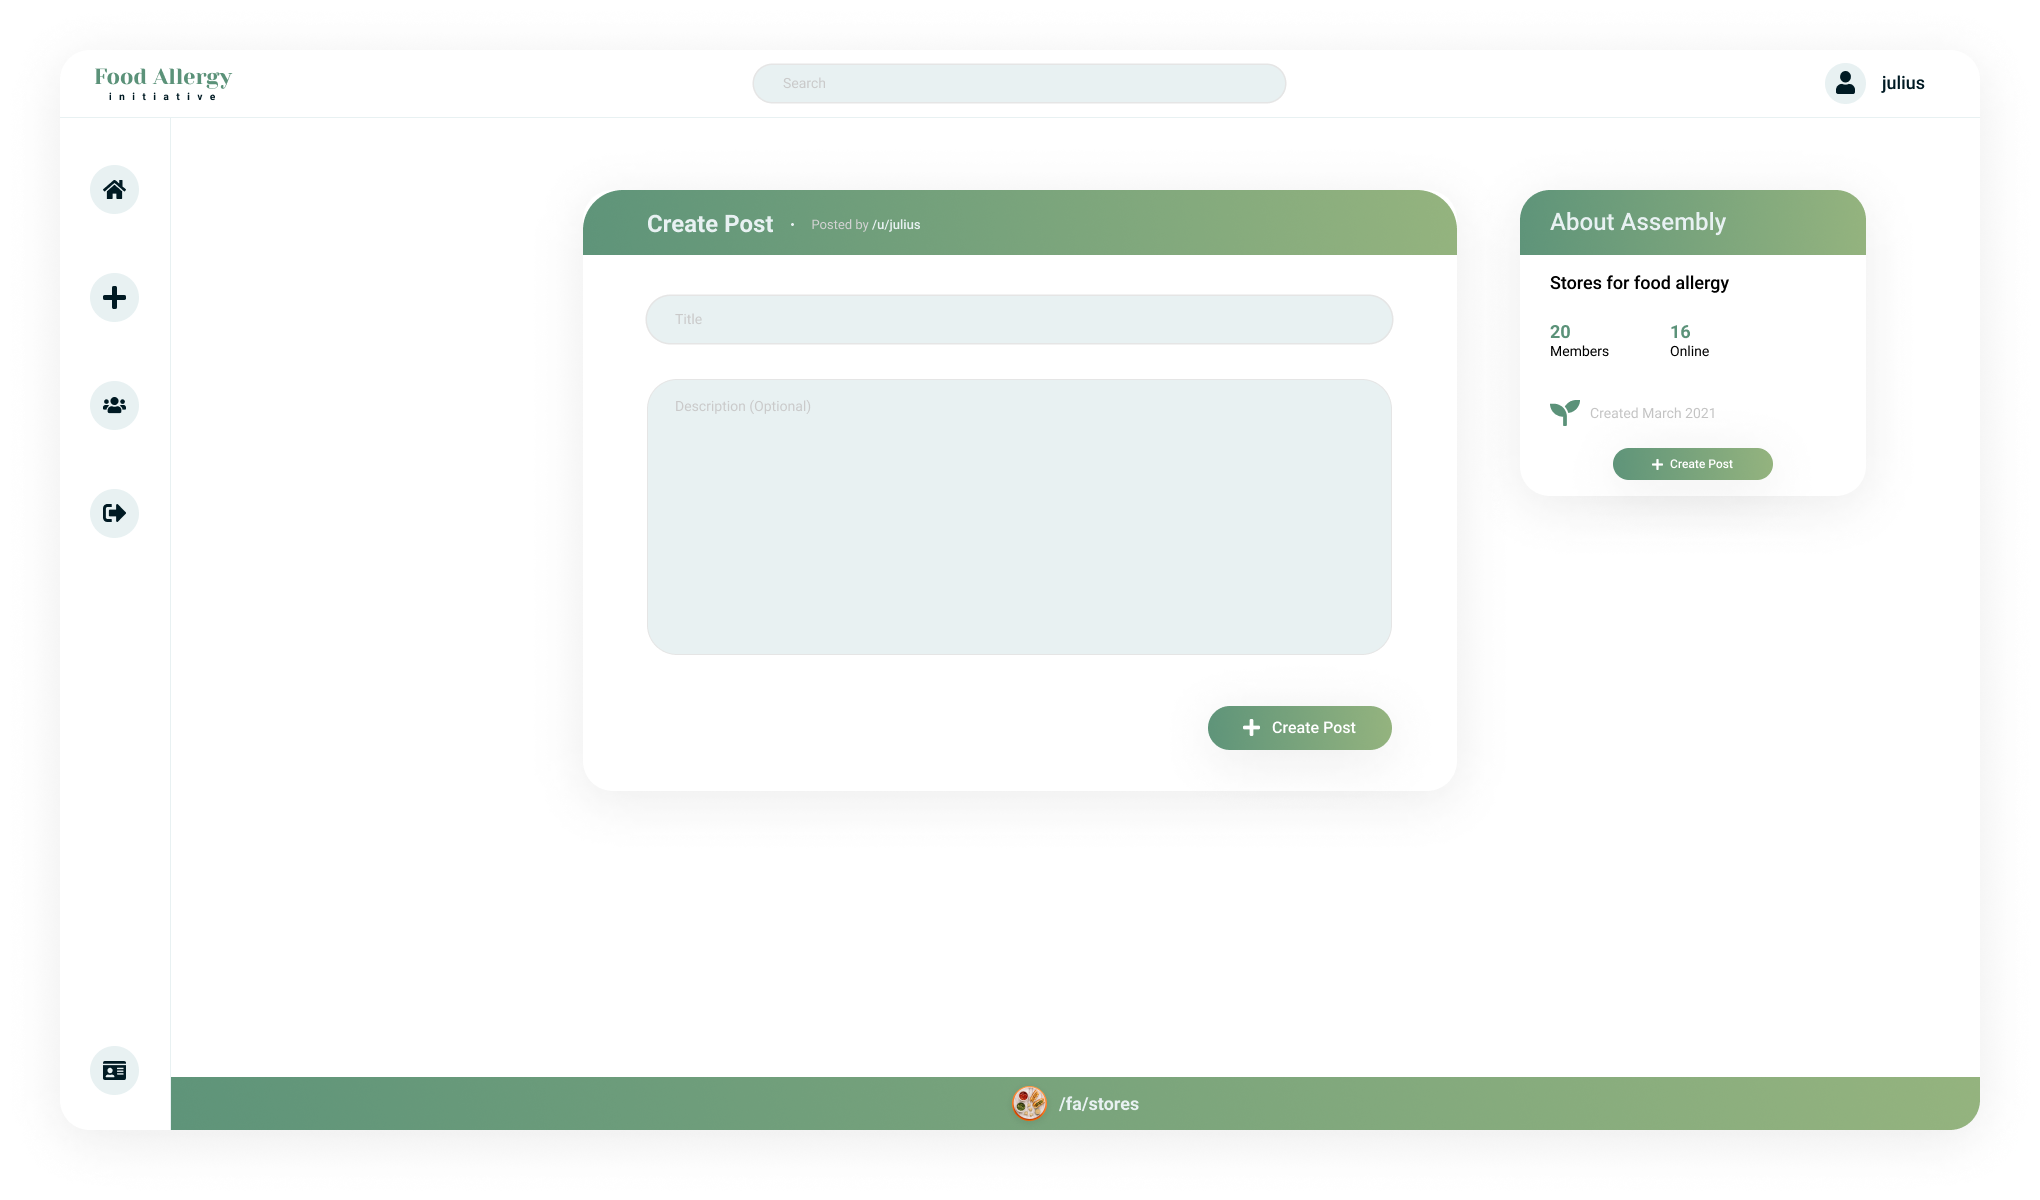
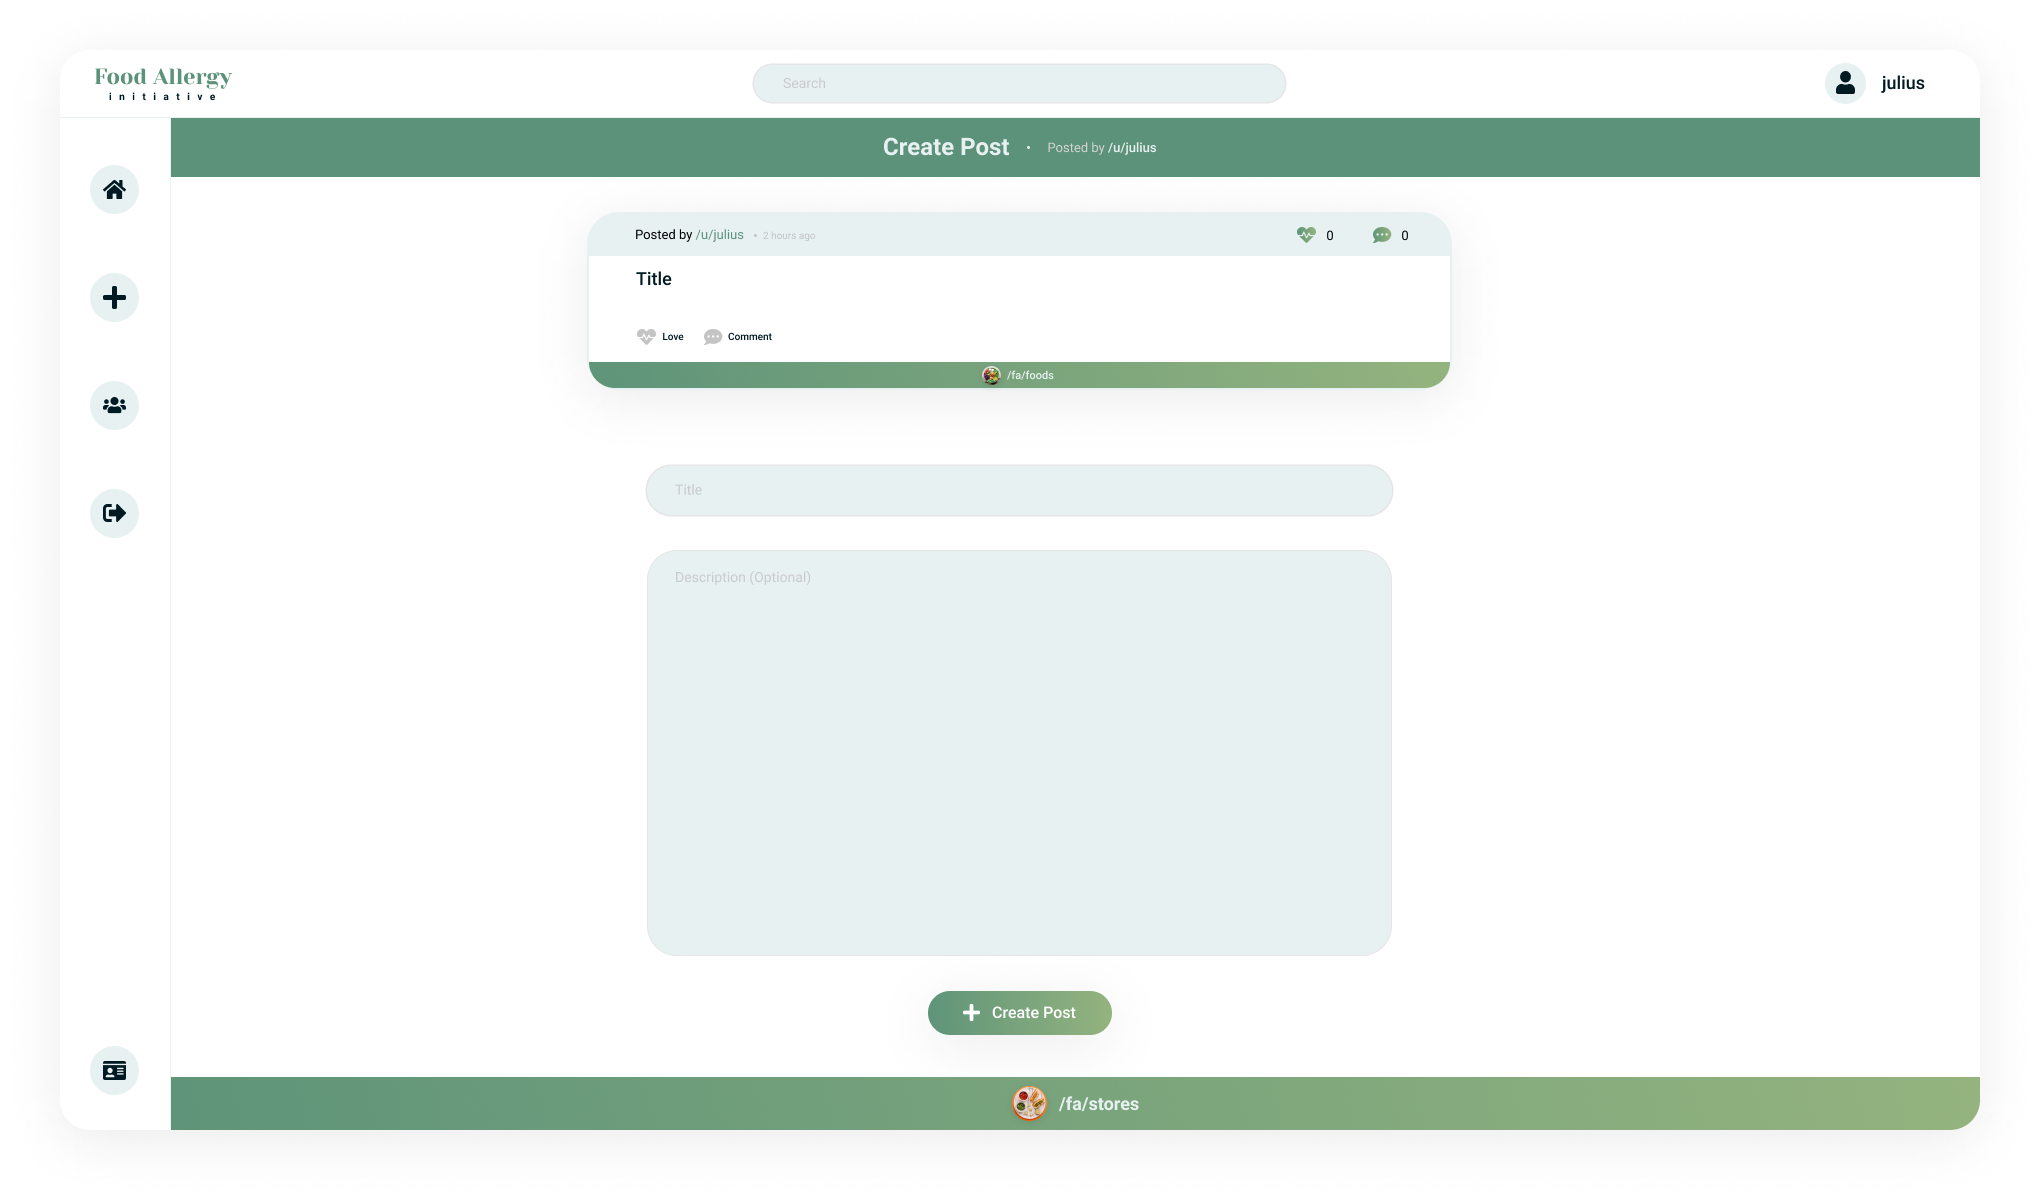
changed page 7

diff --git a/client/src/pages/fa/[sub].tsx b/client/src/pages/fa/[sub].tsx
@@ -10,7 +10,6 @@ import { useAuthState } from "../../context/auth";
 import Image from "next/image";
 import classNames from "classnames";
 import Axios from "axios";
-import AssembliesAndSub from "../../components/AssembliesAndSub";
 import AboutAssembly from "../../components/AboutAssembly";
 
 export default function SubPage() {
@@ -97,8 +96,8 @@ export default function SubPage() {
             />
             {/* Sub info and images */}
             {/* Posts and Sidebar */}
-            <div className="flex flex-col items-center w-full pt-8 bg-transparent pl-1/18">
-              <div className="flex items-center justify-around w-full px-20 mb-20">
+            <div className="flex flex-col items-center w-full bg-transparent pl-1/18">
+              <div className="flex items-center justify-around w-full px-20 py-14 mb-14 bg-green">
                 <div
                   className={classNames(
                     "h-56 bg-gradient-to-r from-primary to-secondary w-4/7 rounded-2xl",
@@ -123,7 +122,7 @@ export default function SubPage() {
                 <div className="flex items-center justify-between px-5 bg-white shadow-2xl w-2/7 h-36 rounded-2xl ">
                   <div className="flex items-center">
                     <div className="flex items-center justify-center w-16 h-16 rounded-full bg-gradient-to-r from-primary to-secondary">
-                      <div className="flex items-center justify-center bg-red-500 rounded-full w-14 h-14">
+                      <div className="flex items-center justify-center rounded-full bg-gradient-to-r from-primary to-secondary w-14 h-14">
                         <Image
                           src={sub.imageUrl}
                           alt="Sub"

diff --git a/client/src/components/Assemblies.tsx b/client/src/components/Assemblies.tsx
@@ -2,21 +2,27 @@ import Image from "next/image";
 import { Post, Sub } from "../types";
 import Link from "next/link";
 import useSWR from "swr";
+import { useAuthState } from "../context/auth";
 
 export default function Assemblies() {
-  const { data: topSubs } = useSWR("/misc/top-subs");
+  const { data: topSubs } = useSWR<Sub[]>("/misc/top-subs");
+  const { authenticated } = useAuthState();
 
   return (
     <div className="flex flex-col items-center mt-20 w-4/20">
-      <button className="flex items-center justify-center w-6/12 py-3 mb-6 font-semibold text-white rounded-full outline-none focus:outline-none bg-gradient-to-r from-primary to-secondary">
-        <i className="h-auto mr-2 text-base text-white fas fa-plus"></i>
-        Create Assembly
-      </button>
+      {authenticated && (
+        <Link href="/subs/create">
+          <button className="flex items-center justify-center w-6/12 py-3 mb-6 font-semibold text-white rounded-full outline-none focus:outline-none bg-gradient-to-r from-primary to-secondary">
+            <i className="h-auto mr-2 text-base text-white fas fa-plus"></i>
+            Create Assembly
+          </button>
+        </Link>
+      )}
       <div className="flex flex-col w-full p-6 bg-white shadow-2xl rounded-4xl">
         <p className="mb-4 text-2xl text-secondary font-secondary">
           Assemblies
         </p>
-        {topSubs?.map((sub: Sub) => (
+        {topSubs?.map((sub) => (
           <div
             key={sub.name}
             className="flex items-center justify-between w-full mb-4 bg-transparent"

diff --git a/client/src/pages/index.tsx b/client/src/pages/index.tsx
@@ -5,18 +5,13 @@ import dayjs from "dayjs";
 import relativeTime from "dayjs/plugin/relativeTime";
 import useSWR from "swr";
 
-import { Post, Sub } from "../types";
-
 import PostCard from "../components/PostCard";
-import Image from "next/image";
-import Link from "next/link";
 import Assemblies from "../components/Assemblies";
 
 dayjs.extend(relativeTime);
 
 export default function Home() {
   const { data: posts } = useSWR("/posts");
-  const { data: topSubs } = useSWR("/misc/top-subs");
 
   return (
     <Fragment>

diff --git a/client/src/components/AboutAssembly.tsx b/client/src/components/AboutAssembly.tsx
@@ -6,7 +6,6 @@ import classNames from "classnames";
 
 export default function AboutAssembly(props) {
   const { authenticated } = useAuthState();
-  console.log(props.fullWidth);
 
   return (
     <div

diff --git a/client/src/pages/subs/create.tsx b/client/src/pages/subs/create.tsx
@@ -1,0 +1,3 @@
+export default function create() {
+  return <div></div>;
+}
